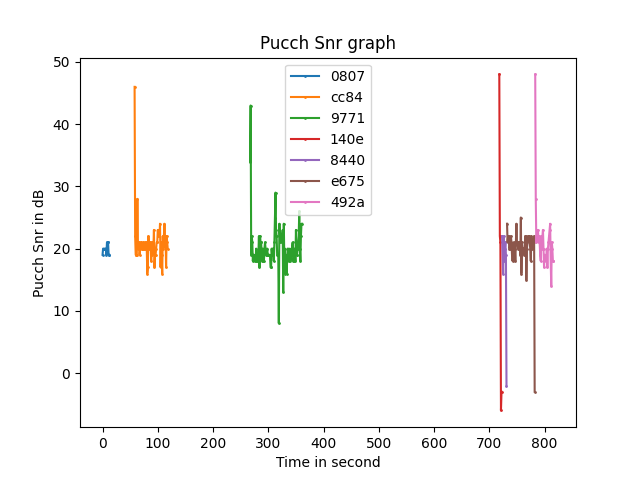
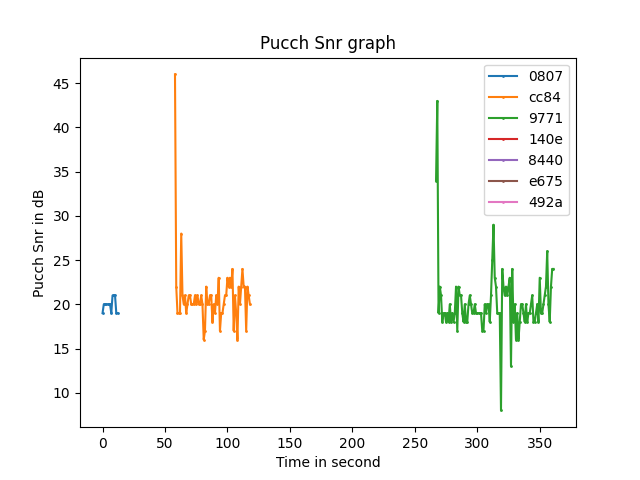
readme

diff --git a/README.md b/README.md
@@ -88,11 +88,33 @@ Avaible options:
 
 -s option: to change the starting timer of the data (for example if you don't want the 5 first minutes on your graph just use "-s 300" (time is in second))
 
+```bash
+python src/main.py file.csv -s 300
+```
+
 -e option: to change the ending timer of the data, just add the maximum time limit (-1500 to not go over 1500 seconds)
+
+```bash
+python src/main.py file.csv -e 1500
+```
 
 -r1 option: if you want to select only one rnti specifically (for example if you want to see only rnti "4ac8" use "r1 4ac8)
 
+```bash
+python src/main.py file.csv -r1 4ac8
+```
+
 -r2 option: (only if r1 used) if you want to select a second rnti
+
+```bash
+python src/main.py file.csv -r1 4ac8 -r2 8c5e
+```
+
+You can use all the option at the same time:
+
+```bash
+python src/main.py file.csv -s 300 -e 1500 -r1 4ac8 -r2 8c5e
+```
 
 
 ### 4) How to get the logs of your OAIbox
